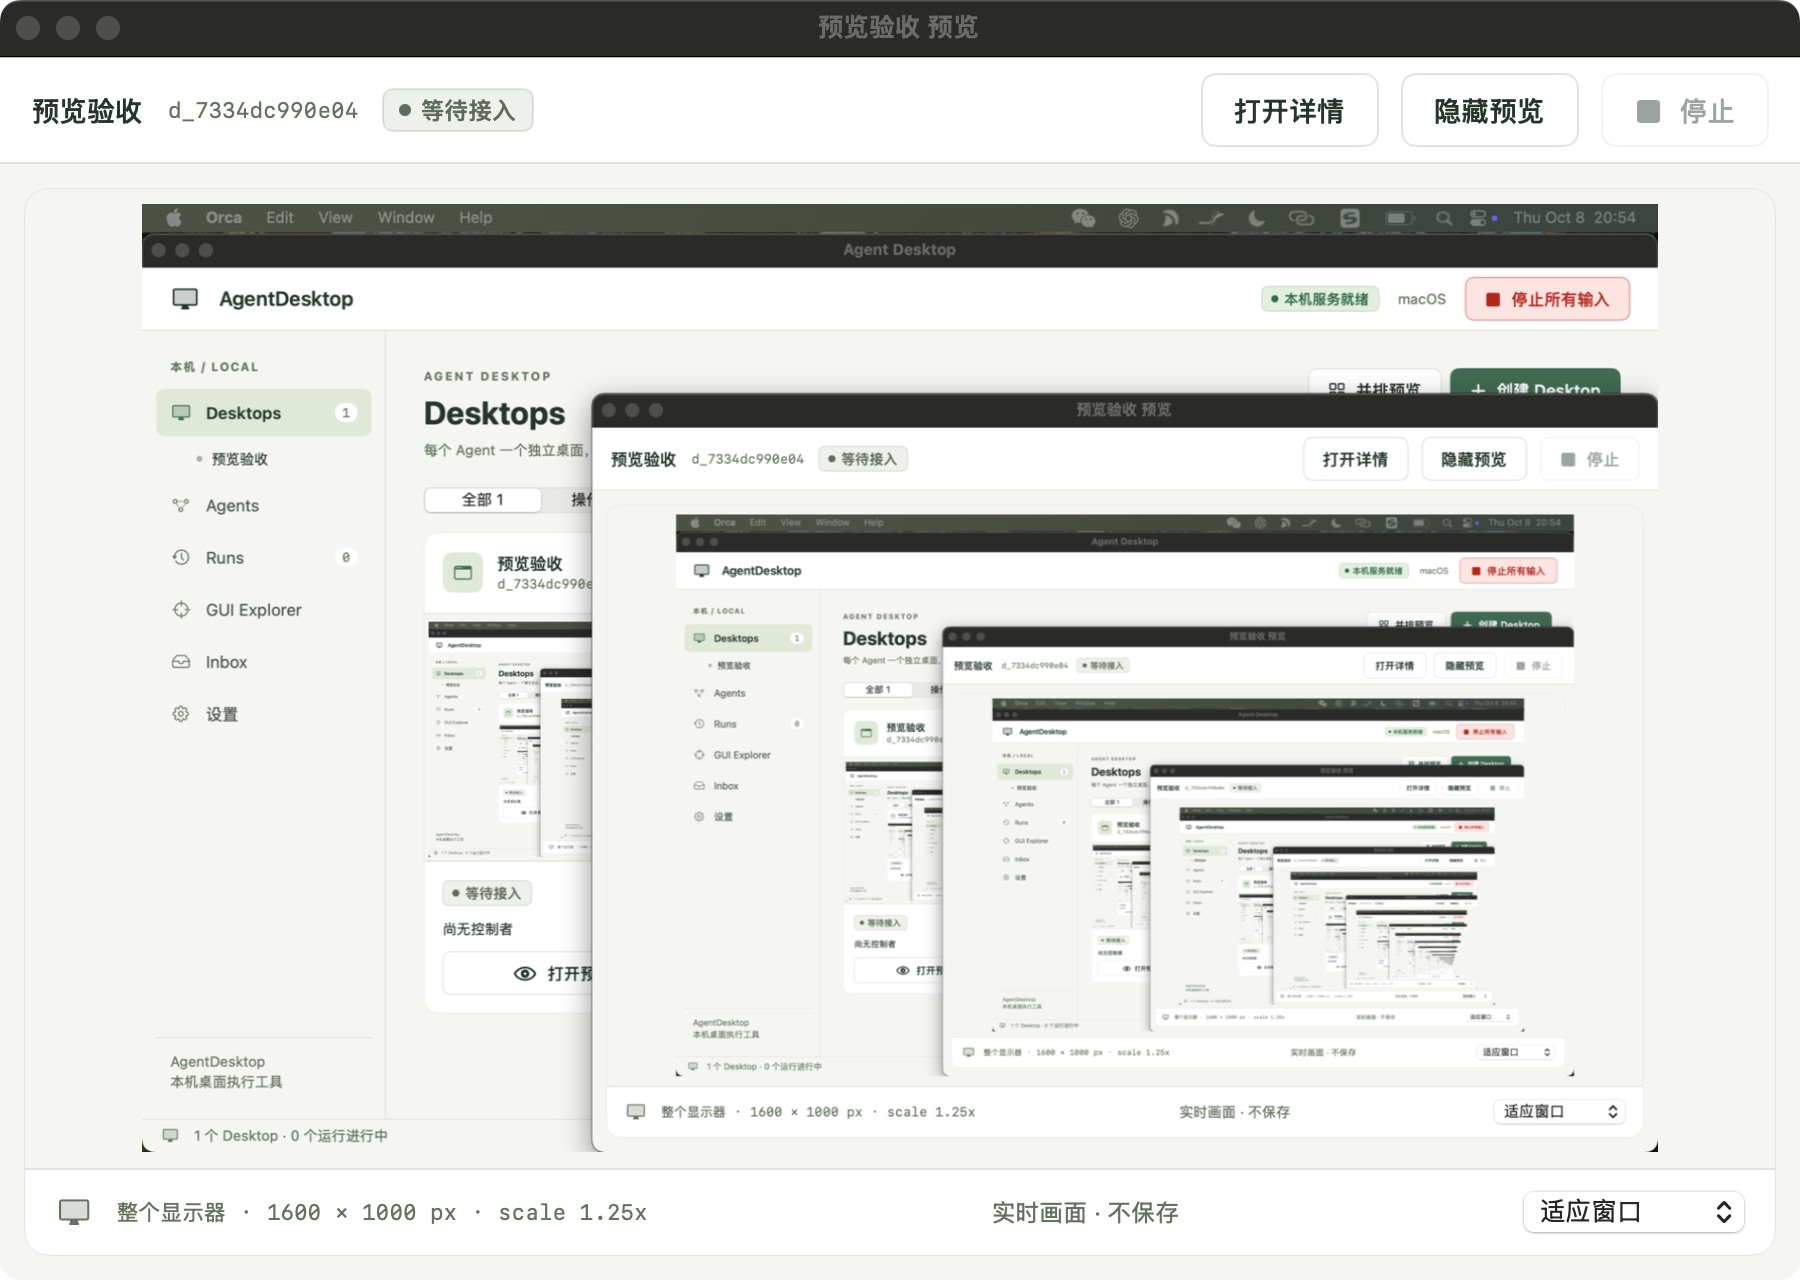
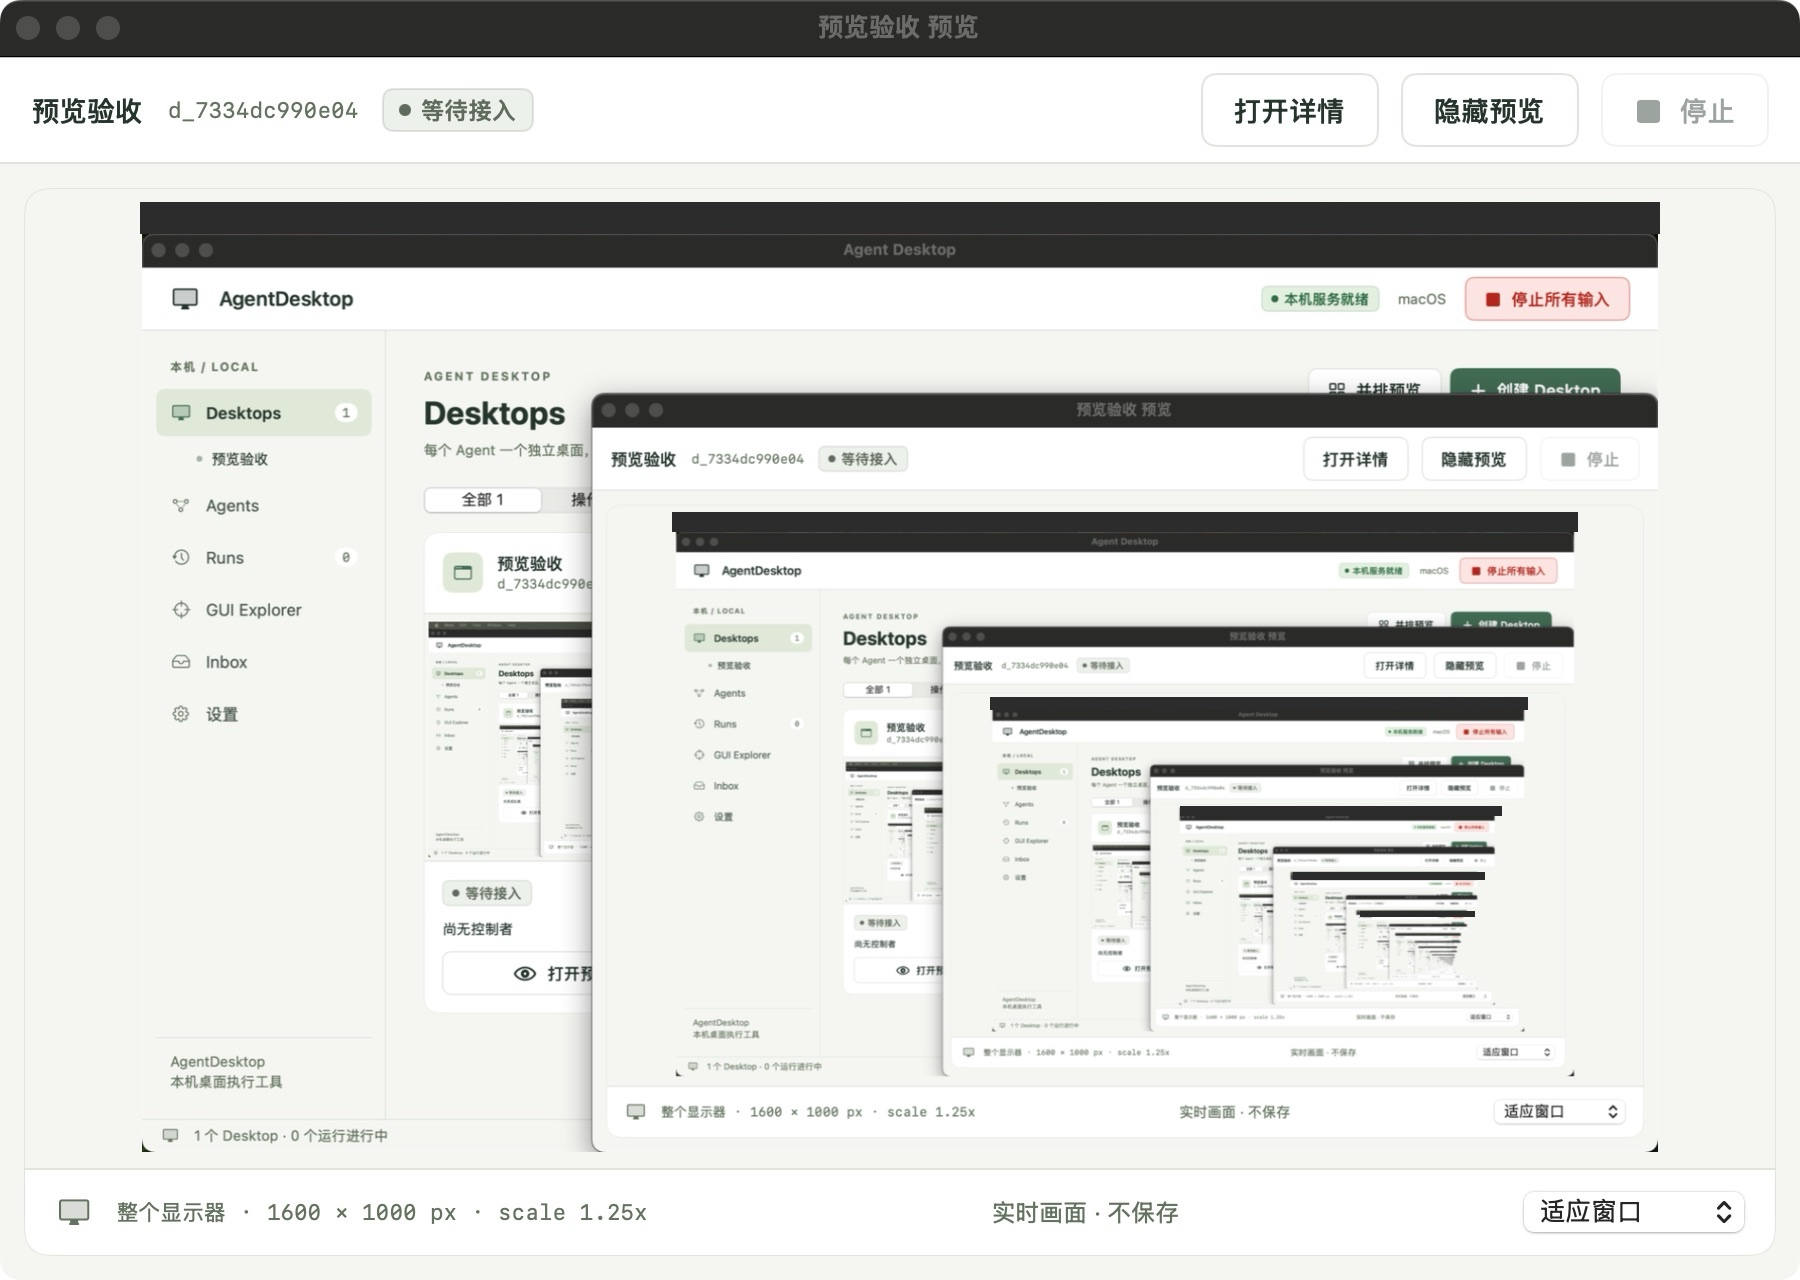
Redact the menu bar and device names from six acceptance screenshots; screenshot privacy rules
Display captures show the user's menu bar on every display (frontmost
app, menu-bar apps, time); two iPhone captures show device names. The
regions are filled with an opaque block; the evidence each screenshot
records is kept. History is not rewritten (Kevin 2026-10-08).

diff --git a/docs/acceptance/SCREENSHOT-PRIVACY.md b/docs/acceptance/SCREENSHOT-PRIVACY.md
@@ -1,0 +1,29 @@
+# 验收截图隐私规则
+
+Kevin 2026-10-08 裁决：验收截图会被推送到 GitHub，提交前必须做隐私审查。截图是验收证据，脱敏时不能破坏要证明的内容。
+
+## 拍摄
+
+- 只截被测应用自己的窗口：`screencapture -x -o -l <windowId>`。不截整块显示器，也不截用户的主屏。
+- 画面里如果出现整块显示器（虚拟显示器的预览、缩略图、Desktop 观察图），macOS 会在每块显示器上都画一份菜单栏，里面有用户的前台应用名、菜单栏应用图标和时间。这一条要裁掉或涂黑，**内嵌的每一层都算**。
+- 不使用用户自己的应用、窗口或文件做验收对象；只用测试副本自己的中立探针。
+
+## 提交前检查
+
+1. 逐张查看：其他应用的窗口或标题、窗口选择列表、菜单栏、通知、Dock、文件路径、用户名、设备名（例如「某某的 iPhone」「MacBook Pro」）、账号、聊天内容、密钥。
+2. 有就涂黑，或者换一张；用不透明色块，不用模糊。
+3. 检查元数据：`strings -n 5 <file> | grep -iE "<用户名>|iphone|macbook|/Users/"`。
+4. 在 PR 里写明「截图已做隐私审查」，以及做了哪些涂黑。
+
+## 已处理（2026-10-08）
+
+| 文件 | 涂黑内容 |
+| --- | --- |
+| `ui-u2a/real-sck-preview.jpg` | 六层嵌套预览里的菜单栏（前台应用、菜单栏图标、时间） |
+| `ui-u2a/real-sck-overview.jpg` | 总览卡片缩略图里的菜单栏 |
+| `ui-u2a/real-p06-empty-desktop.jpg` | 虚拟显示器画面里的菜单栏 |
+| `ui-u8/real-p31-open-preview.jpg` | 预览画面里的菜单栏 |
+| `iphone-2026-10-08/l1-screen.png` | Mac 菜单栏；「撤销访问」按钮里的 iPhone 设备名 |
+| `iphone-2026-10-08/o1.png` | 粘贴提示里的 Mac 设备名 |
+
+这些图片的原版仍在 Git 历史里。Kevin 裁决暂不改写历史：仓库是私有的，暴露的是菜单栏、时间和设备名这一级信息，没有凭据或消息内容。
